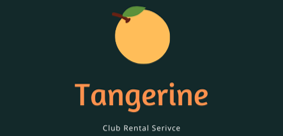
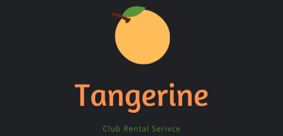
css

diff --git a/managerCss.css b/managerCss.css
@@ -2,7 +2,8 @@
 @import 'https://fonts.googleapis.com/css?family=Raleway';
 
 body{
-  background-color: #13292a;
+  /* background-color: #13292a; */
+  background-color: #1f2124;
   text-align: center;
   vertical-align: center;
   font-family: 'Nanum Gothic', sans-serif;
@@ -147,7 +148,8 @@ footer{
 
 /* 검색창 */
 #srch{
-  background: #324142;
+  /* background: #324142; */
+  background: #383a3f;
   color: white;
   border: 0.1em solid rgb(255, 189, 89, 0.2);
   border-radius: 0.2em;
@@ -159,7 +161,8 @@ footer{
   box-shadow: 0 0 0.4em 0.3em rgb(255, 189, 89, 0.2);
 }
 .bttn-srch{
-  background: #324142;
+  /* background: #324142; */
+  background: #383a3f;
   outline-color: #ffbd59;
   padding-top: 0.1em;
   padding-bottom: 0.1em;
@@ -195,6 +198,9 @@ footer{
   margin-top: 8%;
   border-radius: 0.5em;
   background: #324142;
+  background: #383a3f;
+  text-align: center;
+
   font-weight: bold;
   letter-spacing: 0.1em;
   padding: 1em;
@@ -218,15 +224,17 @@ footer{
 }
 /* create 버튼 */
 .bttn-create{
-  background: #39DB92;
-  color: #13292a;
+  background: #A593E0;
+  color: black;
   font-weight: bold;
   letter-spacing: 0.07em;
 }
 /* 물품 추가 버튼 */
 .bttn-add{
-  background: #39DB92;
-  color: #13292a;
+  background: #A593E0;
+  color: black;
   font-weight: bold;
   margin-top: 1em;
+  margin-left: 6.5em;
+  margin-left: 35%;
 }

diff --git a/manager.html b/manager.html
@@ -22,7 +22,7 @@
     <div class="row">
       <div id="manage" class="col-xs-12 col-md-12">
         <table id="homeT">
-          <caption> <img src="img/tangerine_b.png"></caption>
+          <caption> <img src="./img/tangerine_b.png"></caption>
           <tr>
             <td>Username</td>
             <td>
